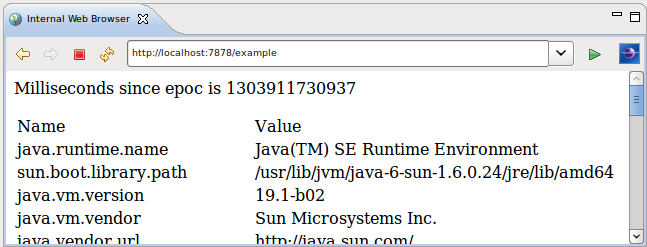
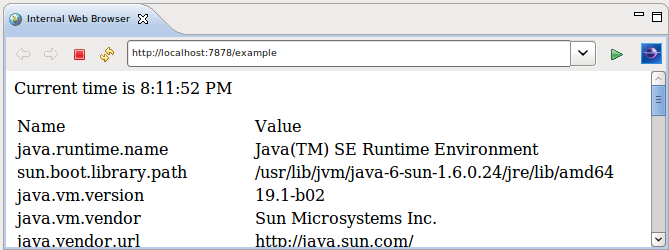
Providing formatted time as looks much better than epoc milliseconds.

diff --git a/officefloor/trunk/tutorials/DynamicHttpServer/src/main/resources/Template.html b/officefloor/trunk/tutorials/DynamicHttpServer/src/main/resources/Template.html
@@ -1,7 +1,7 @@
 <html>
 	<body>
 		<!-- {time} -->
-		<p>Milliseconds since epoc is ${time}</p>
+		<p>Current time is ${time}</p>
 		<table>
 			<tr>
 				<td>Name</td>

diff --git a/officefloor/trunk/tutorials/DynamicHttpServer/src/main/java/net/officefloor/tutorial/dynamichttpserver/Time.java b/officefloor/trunk/tutorials/DynamicHttpServer/src/main/java/net/officefloor/tutorial/dynamichttpserver/Time.java
@@ -17,6 +17,9 @@
  */
 package net.officefloor.tutorial.dynamichttpserver;
 
+import java.text.SimpleDateFormat;
+import java.util.Date;
+
 /**
  * Time bean.
  * 
@@ -25,8 +28,9 @@ package net.officefloor.tutorial.dynamichttpserver;
 // START SNIPPET: example
 public class Time {
 
-	public long getTime() {
-		return System.currentTimeMillis();
+	public String getTime() {
+		return SimpleDateFormat.getTimeInstance().format(
+				new Date(System.currentTimeMillis()));
 	}
 
 }
